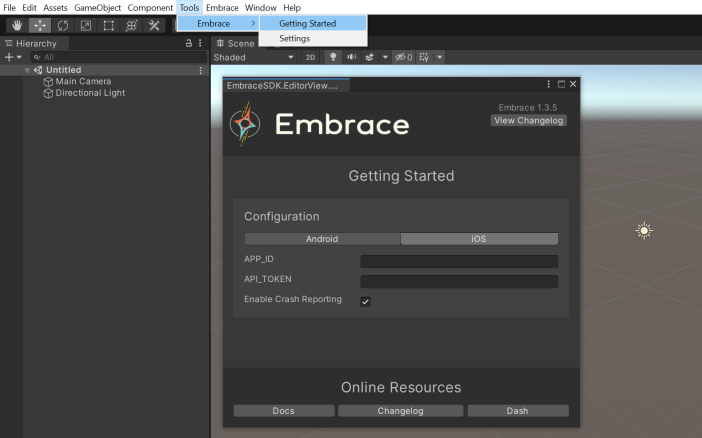
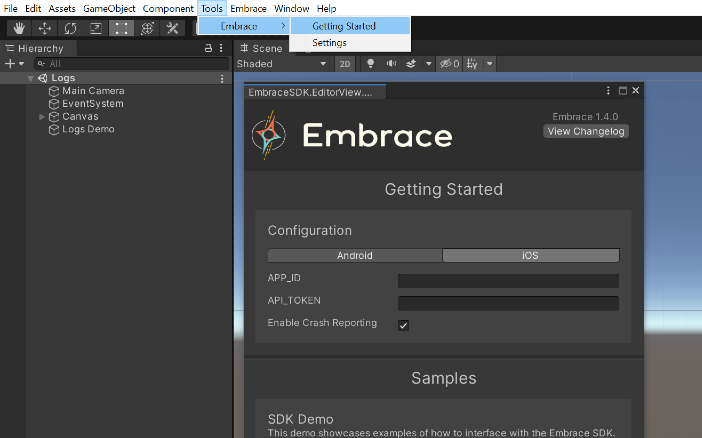
Updating unity docs (#104)
* updating images

* update changelog and config

diff --git a/content/unity/changelog.md b/content/unity/changelog.md
@@ -6,6 +6,12 @@ weight: 4
 
 # Unity SDK Changelog
 
+## 1.4.0
+*March 15, 2022*
+
+* Updated SDK to use the official package management system for Unity.
+* Upgrades native iOS SDK to 5.7.6
+
 ## 1.3.9
 *February 28, 2022*
 
